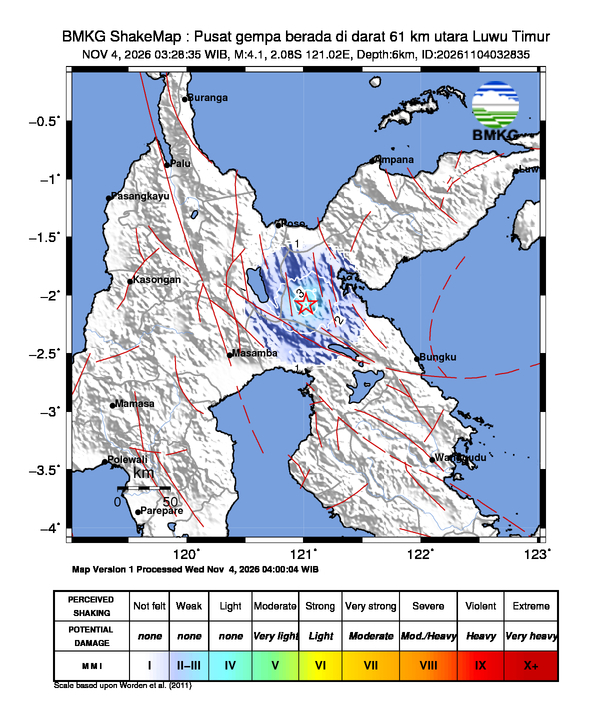
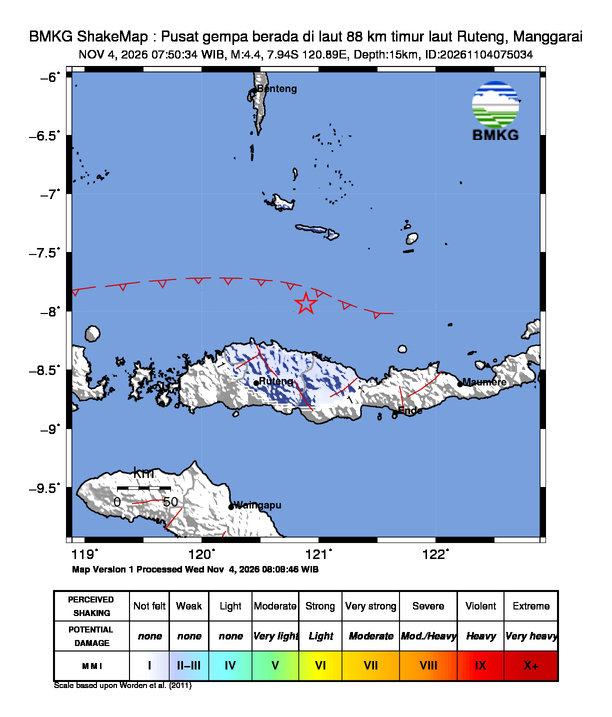
docs: update info gempa & README - 2026-11-04 10:17:19 WIB [skip ci]

diff --git a/README.md b/README.md
@@ -2,7 +2,7 @@
 
 > Monitor gempa bumi real-time untuk wilayah Indonesia. Data diambil otomatis dari **BMKG** setiap 5 menit oleh GitHub Actions, lalu ditampilkan lengkap di README ini beserta peta guncangannya (shakemap).
 
-🕒 **Update otomatis terakhir:** Rabu, 04 November 2026 pukul 06.41.11
+🕒 **Update otomatis terakhir:** Rabu, 04 November 2026 pukul 10.17.19
 
 ---
 
@@ -10,13 +10,13 @@
 
 | Parameter | Detail |
 | --- | --- |
-| 📊 **Magnitudo** | M 4.1 |
-| 📍 **Wilayah** | Pusat gempa berada di darat 61 km utara Luwu Timur |
-| 🕒 **Waktu** | 04 Nov 2026, 03:28:35 WIB |
-| 🧭 **Koordinat** | -2.08,121.02 |
-| 📏 **Kedalaman** | 6 km |
+| 📊 **Magnitudo** | M 4.4 |
+| 📍 **Wilayah** | Pusat gempa berada di laut 88 km timur laut Ruteng, Manggarai |
+| 🕒 **Waktu** | 04 Nov 2026, 07:50:34 WIB |
+| 🧭 **Koordinat** | -7.94,120.89 |
+| 📏 **Kedalaman** | 15 km |
 | 🌊 **Potensi** | Gempa ini dirasakan untuk diteruskan pada masyarakat |
-| 📡 **Dirasakan** | II - III Morowali Utara |
+| 📡 **Dirasakan** | III Kab. Manggarai |
 | 🔗 **Sumber** | [BMKG — InfoGempa Realtime](https://www.bmkg.go.id/gempabumi) |
 
 ### 🗺 Peta Guncangan (Shakemap)
@@ -29,6 +29,7 @@
 
 | Waktu | Magnitudo | Wilayah | Kedalaman | Potensi |
 | --- | --- | --- | --- | --- |
+| 04 Nov 2026 07:50:34 WIB | **M 4.4** | Pusat gempa berada di laut 88 km timur laut Ruteng, Manggarai | 15 km | Gempa ini dirasakan untuk diteruskan pada masyarakat |
 | 04 Nov 2026 03:28:35 WIB | **M 4.1** | Pusat gempa berada di darat 61 km utara Luwu Timur | 6 km | Gempa ini dirasakan untuk diteruskan pada masyarakat |
 | 03 Nov 2026 22:37:50 WIB | **M 4.8** | Pusat gempa berada di laut 86 km Selatan Kota Gorontalo | 87 km | Gempa ini dirasakan untuk diteruskan pada masyarakat |
 | 02 Nov 2026 16:58:58 WIB | **M 2.6** | Pusat gempa berada di darat 9 km Utara Kota Jayapura | 8 km | Gempa ini dirasakan untuk diteruskan pada masyarakat |
@@ -43,7 +44,6 @@
 | 29 Okt 2026 05:06:47 WIB | **M 6.4** | Pusat gempa berada di laut 60 km Baratlaut Larat-Kep.Tanimbar | 160 km | Gempa ini dirasakan untuk diteruskan pada masyarakat |
 | 28 Okt 2026 18:59:15 WIB | **M 3.4** | Pusat gempa berada di darat 10 km Utara Tanggamus | 4 km | Gempa ini dirasakan untuk diteruskan pada masyarakat |
 | 28 Okt 2026 08:11:54 WIB | **M 5.4** | 221 km BaratLaut PULAUKARATUNG-SULUT | 10 km | Tidak berpotensi tsunami |
-| 27 Okt 2026 21:43:13 WIB | **M 5.4** | Pusat gempa berada di laut 137 km Selatan Gunungkidul | 10 km | Gempa ini dirasakan untuk diteruskan pada masyarakat |
 
 ---
 
